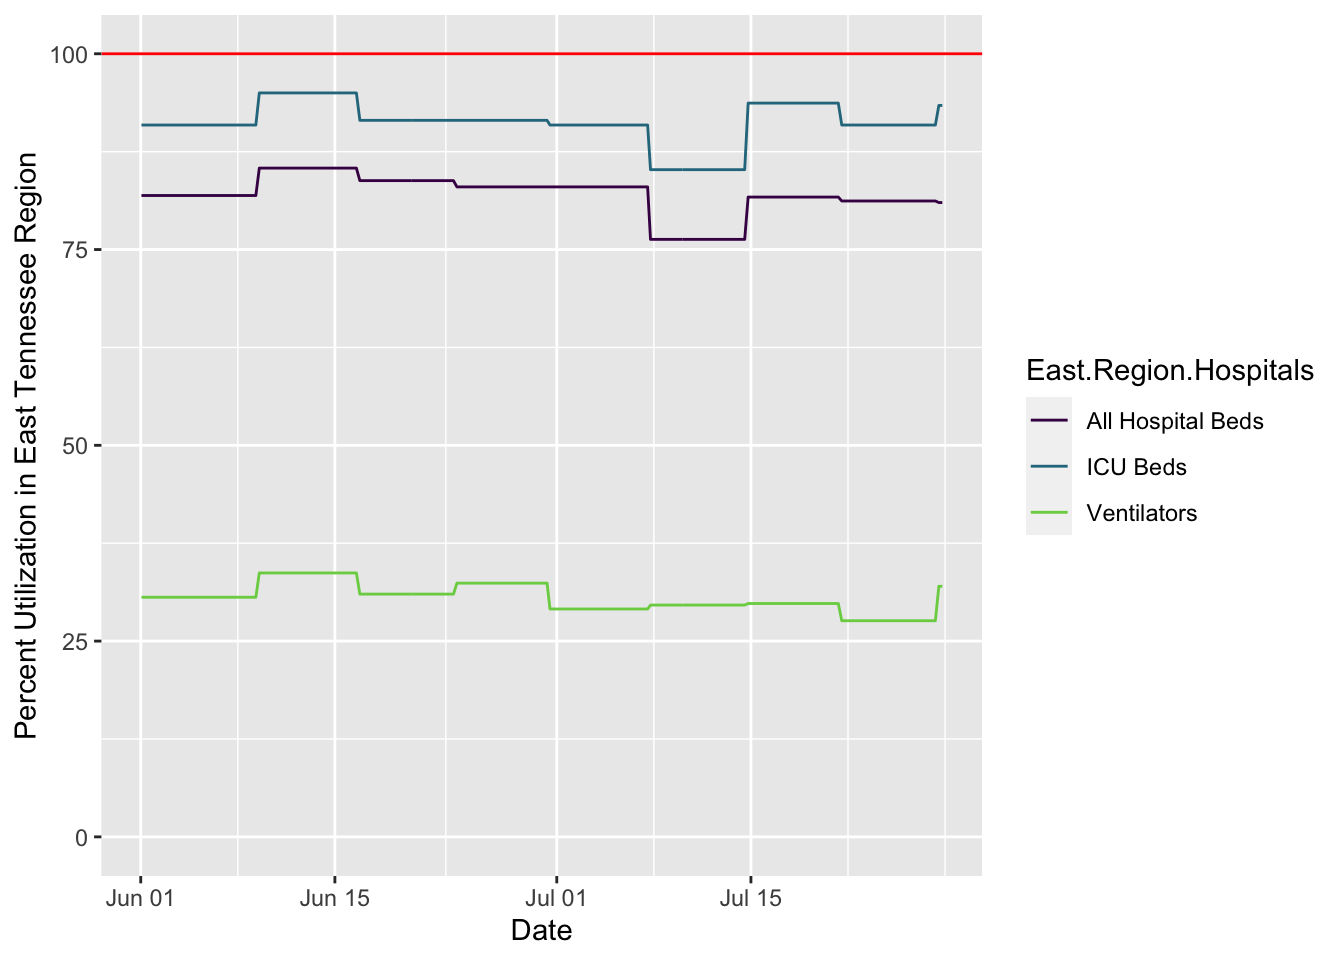
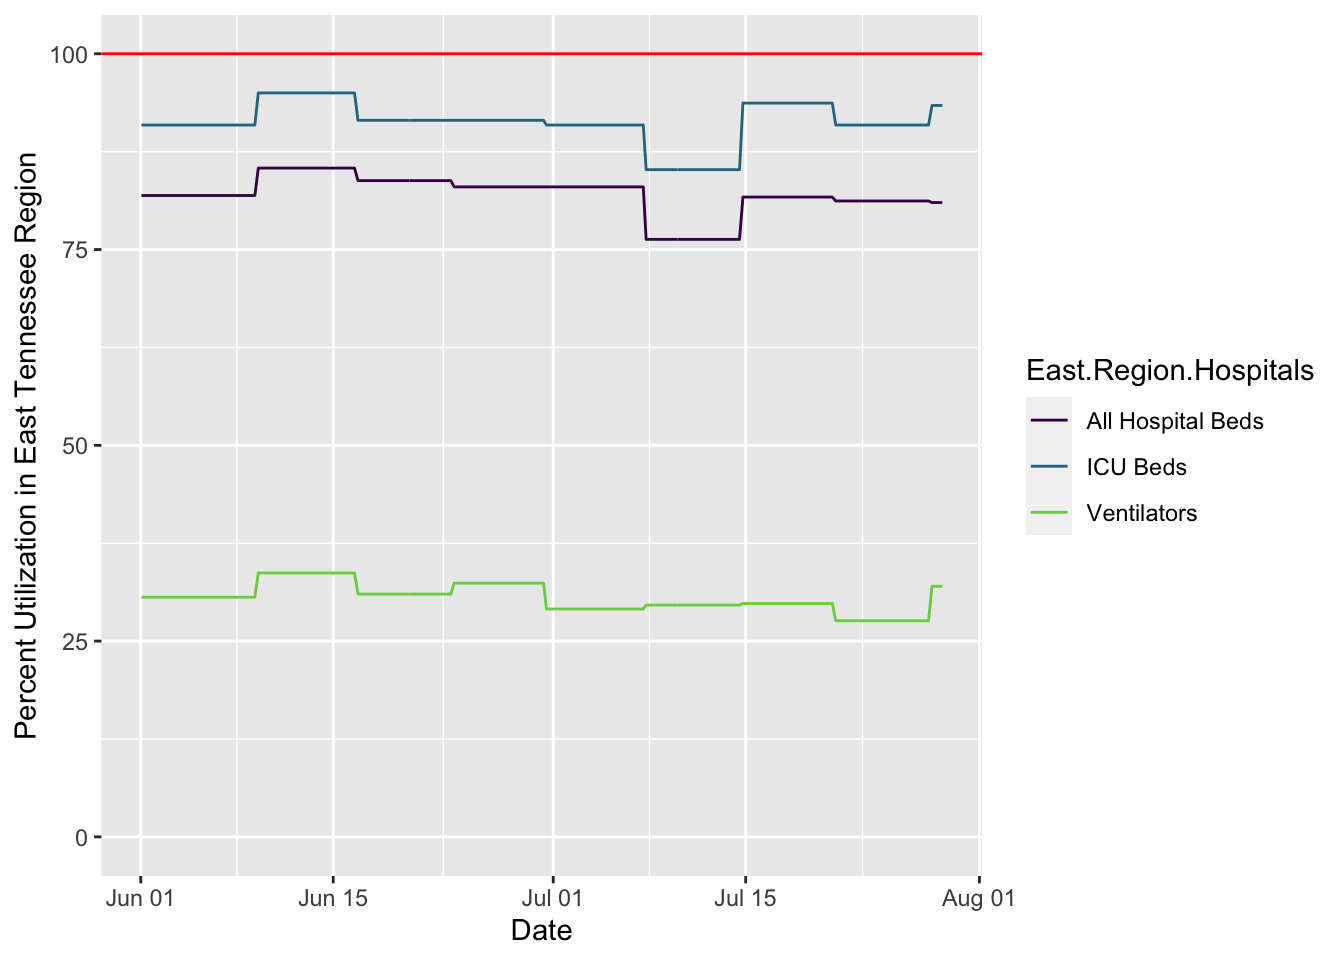
updating site

diff --git a/docs/covid.html b/docs/covid.html
@@ -381,7 +381,7 @@ $(document).ready(function () {
 <li><a href="https://healthdata.gov/dataset/covid-19-reported-patient-impact-and-hospital-capacity-facility">US HHS hospitalization by facility</a></li>
 </ul>
 <hr />
-<p>The following plots are created in R using data from <a href="https://covid19datahub.io" class="uri">https://covid19datahub.io</a> (Guidotti, E., Ardia, D., (2020), “COVID-19 Data Hub”, Working paper, doi: 10.13140/RG.2.2.11649.81763), as well as information from Google and the <a href="https://www.tn.gov/health/cedep/ncov/data/downloadable-datasets.html">state of Tennessee dataset page</a> and plotting and analysis using the <code>forecast</code>, <code>ggplot2</code>, <code>reshape2</code>, and <code>dplyr</code> packages. Plots created on 2021-07-28 19:23:07. I use a seven day rolling average for most plots using the <code>geom_ma</code> function of <code>tidyquant</code>.</p>
+<p>The following plots are created in R using data from <a href="https://covid19datahub.io" class="uri">https://covid19datahub.io</a> (Guidotti, E., Ardia, D., (2020), “COVID-19 Data Hub”, Working paper, doi: 10.13140/RG.2.2.11649.81763), as well as information from Google and the <a href="https://www.tn.gov/health/cedep/ncov/data/downloadable-datasets.html">state of Tennessee dataset page</a> and plotting and analysis using the <code>forecast</code>, <code>ggplot2</code>, <code>reshape2</code>, and <code>dplyr</code> packages. Plots created on 2021-07-29 09:45:32. I use a seven day rolling average for most plots using the <code>geom_ma</code> function of <code>tidyquant</code>.</p>
 <h2 id="cases">
 Cases
 </h2>
@@ -512,7 +512,7 @@ Cases locally
 <h2 id="hospitalization">
 Hospitalization
 </h2>
-<p>As of the last time the data were updated (likely 0 days ago), regional hospitals had 10 ICU beds available of 317 total (so was at 97 percent capacity), and 283 available ventilators out of 416 total, (so was at 32 percent capacity). The hospitals overall had 452 beds available of 3084 total (so was at 85 percent capacity). This is based on 19 acute care hospitals in the East TN region; based on the 14 counties these hospitals are in, these serve at least 1,235,720 people. When a line hits 100% (indicated in red), the local hospitals are theoretically full for that resource (for <em>all</em> patients, not just covid patients), though there is surge capacity on top of this. Note that these data are updated only weekly, so current conditions maybe be much better or worse than these plots show. Data on capacity from Knox County’s dashboard, data on hospitalizations and testing over time from the state data.</p>
+<p>As of the last time the data were updated (likely 1 days ago), regional hospitals had 10 ICU beds available of 317 total (so was at 97 percent capacity), and 283 available ventilators out of 416 total, (so was at 32 percent capacity). The hospitals overall had 452 beds available of 3084 total (so was at 85 percent capacity). This is based on 19 acute care hospitals in the East TN region; based on the 14 counties these hospitals are in, these serve at least 1,235,720 people. When a line hits 100% (indicated in red), the local hospitals are theoretically full for that resource (for <em>all</em> patients, not just covid patients), though there is surge capacity on top of this. Note that these data are updated only weekly, so current conditions maybe be much better or worse than these plots show. Data on capacity from Knox County’s dashboard, data on hospitalizations and testing over time from the state data.</p>
 <p><img src="covid_files/figure-html/hospitalcapacityplot-1.png" width="672" /></p>
 <p>Trends in hospitalization of covid patients over time. The vertical dotted line shows the last day with updated capacity information from Knox County, when there were 10 ICU beds available (ignoring surge capacity) for people in the East Tennessee region. The seven day average is shown.</p>
 <p><img src="covid_files/figure-html/plotsD-1.png" width="672" /></p>
